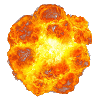
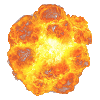
beta - 0.2.1 - добавлены облака, мелкие оптимизации

diff --git a/main.py b/main.py
@@ -12,7 +12,7 @@ def load_image(name, colorkey=None):
     if colorkey is not None:
         image = image.convert()
         if colorkey == -1:
-            colorkey = image.get_at((0, 0))
+            colorkey = image.get_at((0, 0)) 
         image.set_colorkey(colorkey)
     else:
         image = image.convert_alpha()
@@ -22,7 +22,7 @@ def load_image(name, colorkey=None):
 class Kaboom(pygame.sprite.Sprite):
     def __init__(self, pos, image, delay=10):
         super().__init__(all_sprites)
-        self.image = load_image(image, -1)
+        self.image = load_image(image)
         self.rect = self.image.get_rect()
         self.mask = pygame.mask.from_surface(self.image)
         self.rect.bottom = height
@@ -97,7 +97,7 @@ class Background(pygame.sprite.Sprite):
 class Plane(pygame.sprite.Sprite):
     def __init__(self, pos, image='pln1.png', spd=0.5):
         super().__init__(all_sprites)
-        self.image = load_image(image, -1)
+        self.image = load_image(image)
         self.rect = self.image.get_rect()
         self.mask = pygame.mask.from_surface(self.image)
         self.rect.x = pos[0]
@@ -124,7 +124,7 @@ class Bomber(Plane):
         global score, ammo
         if key:
             score += 100
-            ammo += 15
+            ammo += 10
             Kaboom((self.rect.x, self.rect.y - 50), 'bomberboom.png', 20)
         else:
             score -= 100
@@ -139,7 +139,7 @@ class Fighter(Plane):
         global score, ammo
         if key:
             score += 50
-            ammo += 20
+            ammo += 15
             Kaboom((self.rect.x, self.rect.y - 25), 'fighterboom.png', 15)
         else:
             score -= 50
@@ -159,6 +159,23 @@ class Rocket(Plane):
         else:
             score -= 150
         super().kill()
+
+
+class Cloud(pygame.sprite.Sprite):
+    def __init__(self, pos):
+        super().__init__(all_sprites)
+        self.image = pygame.transform.scale(load_image('cloud.png'), (random.randint(100, 200), random.randint(50, 100)))
+        self.rect = self.image.get_rect()
+        self.mask = pygame.mask.from_surface(self.image)
+        self.rect.bottom = height
+        self.rect.x = pos[0]
+        self.rect.y = pos[1]
+        self.vector = Vect(180, 0.2)
+
+    def update(self):
+        self.rect = self.rect.move(*self.vector.tuple())
+        if self.rect.x not in range(-200, width):
+            self.kill()
 
 
 AA_vect = Vect(270, 1.3)
@@ -234,22 +251,22 @@ if __name__ == '__main__':
                     Bullet(aa_pos, 'blt1.png')
                 if fc < 10000:
                     if fc % lvlcount == 0:
-                        Bomber((width - 1, random.randint(0, 250)))
+                        Bomber((width - 1, random.randint(80, 250)))
                 elif fc >= 10000 and fc < 100000:
                     if fc % lvlcount == 0:
                         if random.choice([True, False]):
-                            Bomber((width - 1, random.randint(0, 250)))
+                            Bomber((width - 1, random.randint(80, 250)))
                         else:
-                            Fighter((width - 1, random.randint(0, 350)))
+                            Fighter((width - 1, random.randint(80, 350)))
                 else:
                     if fc % lvlcount == 0:
                         chose = random.randint(1,  5)
                         if chose == 1 or chose == 2:
-                            Bomber((width - 1, random.randint(0, 250)))
+                            Bomber((width - 1, random.randint(80, 250)))
                         elif chose == 3 or chose == 4:
-                            Fighter((width - 1, random.randint(0, 350)))
+                            Fighter((width - 1, random.randint(80, 350)))
                         else:
-                            Rocket((width - 1, random.randint(0, 350)))
+                            Rocket((width - 1, random.randint(80, 350)))
                 if tl:
                     AA_vect.turn(-1)
                 if tr:
@@ -257,6 +274,8 @@ if __name__ == '__main__':
                 fc += 1
                 if fc % 10000 == 0:
                     lvlcount //= 2
+                if not random.randint(0, 1000):
+                    Cloud((1480, random.randint(80, 250)))
                 pygame.display.flip()
         if not running:
             break
